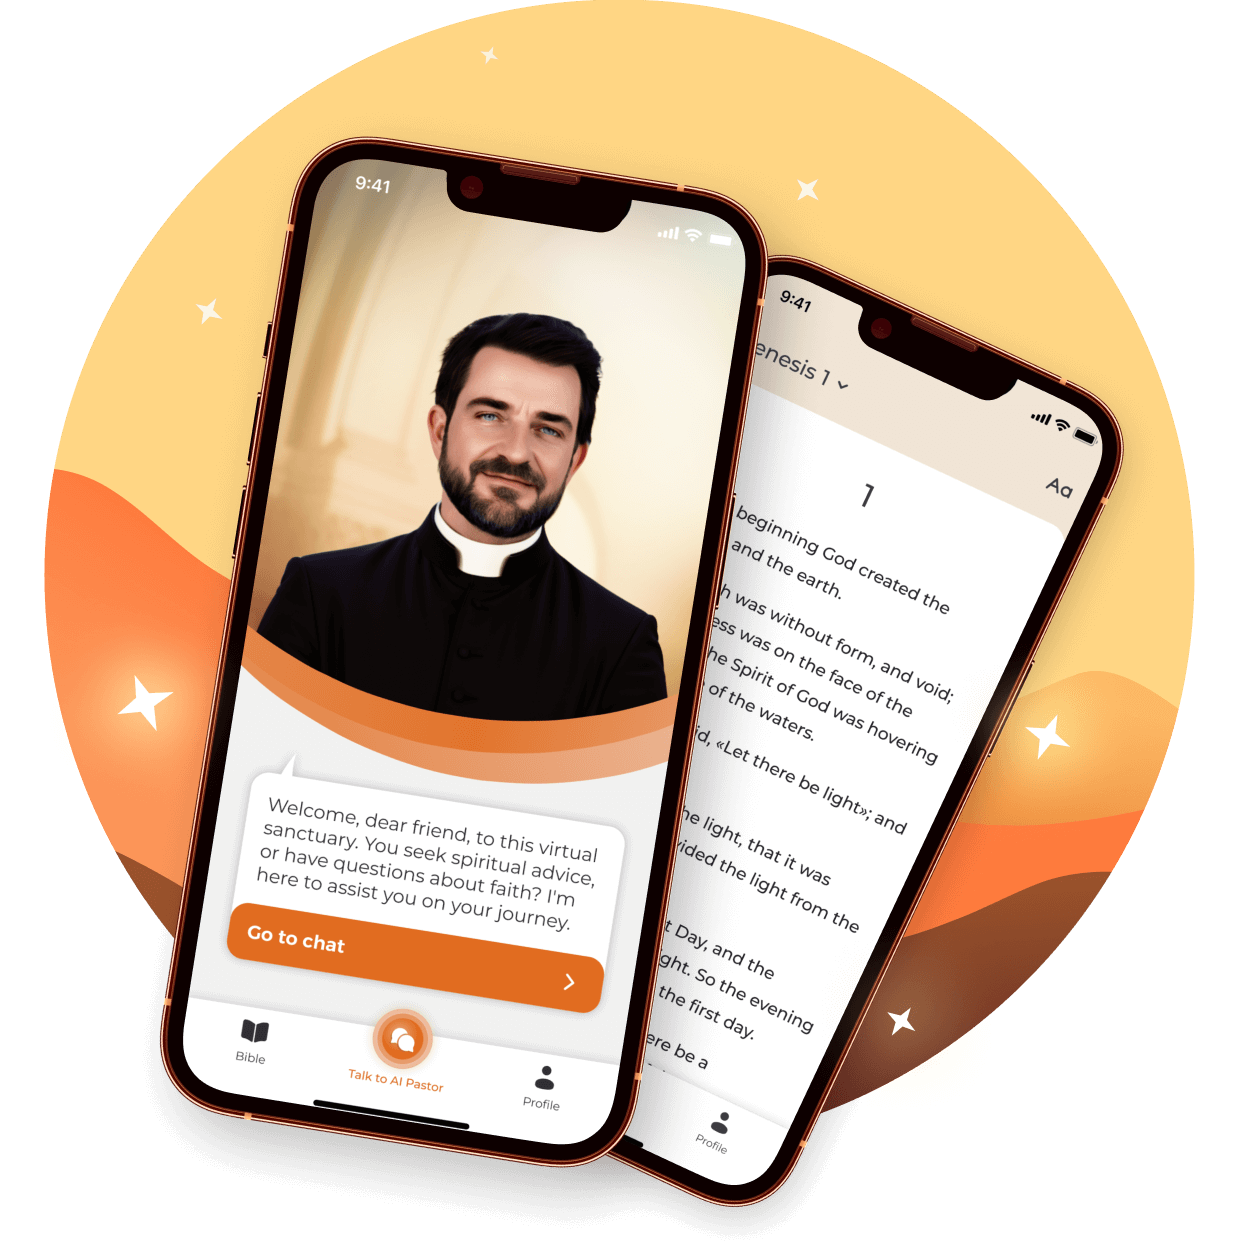
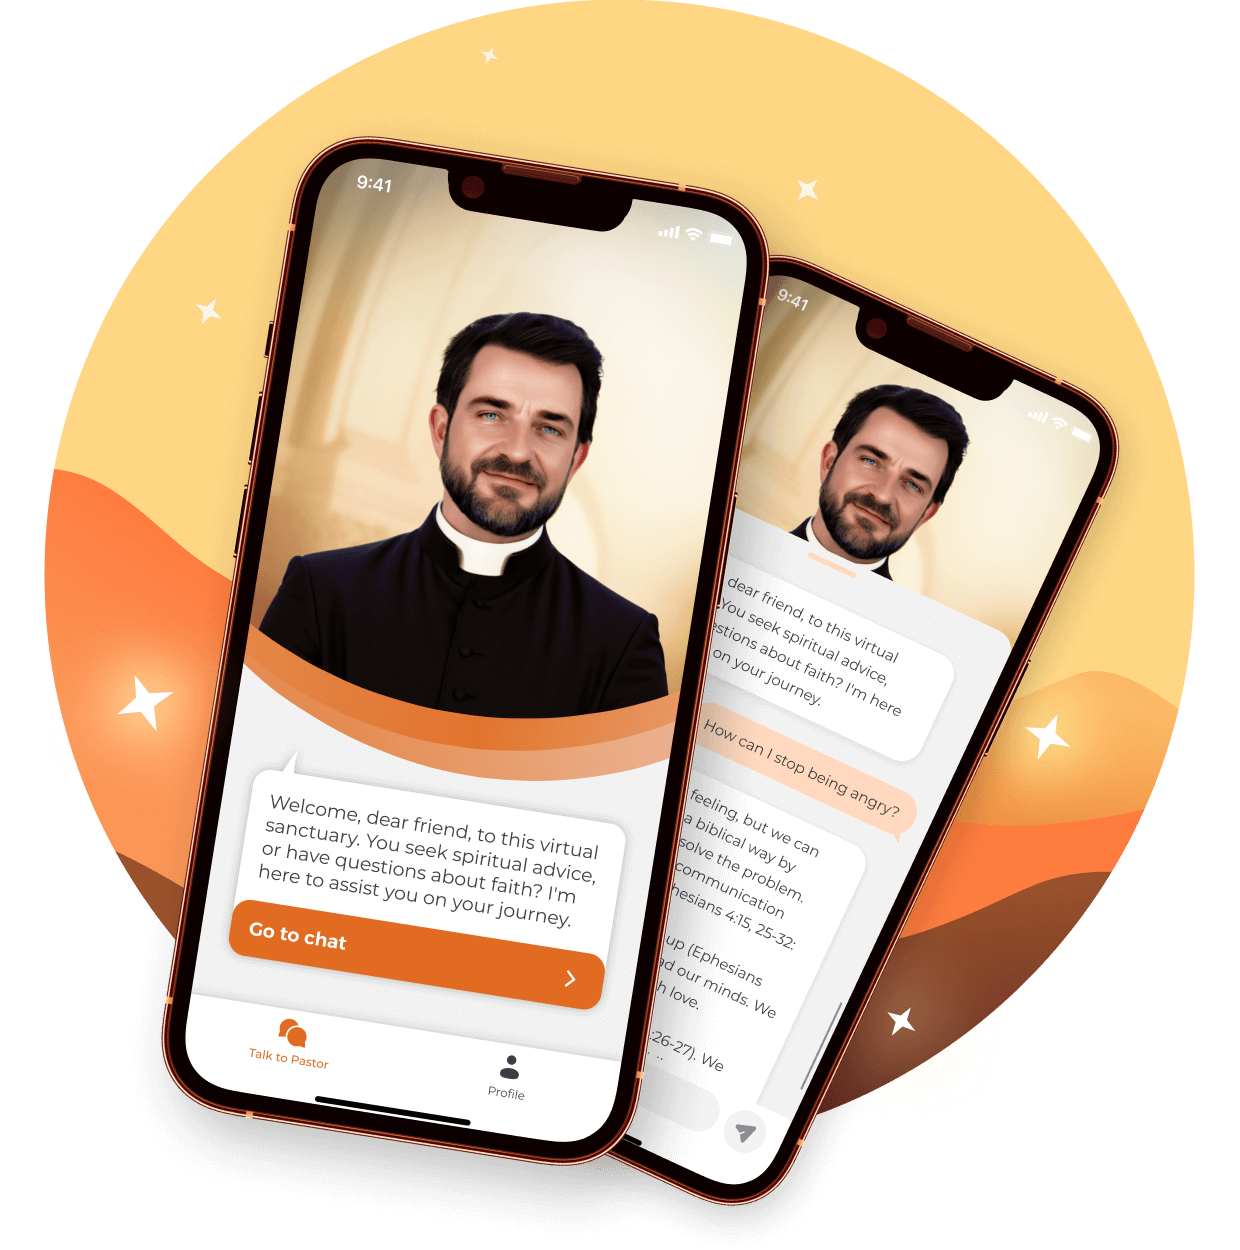
AI Pastor: update home page

diff --git a/aipastor/index.html b/aipastor/index.html
@@ -38,15 +38,14 @@
 				<div class="BlockLogoAndTitleAndDescription">
 					<img alt="Logo" class="Logo" src="/img/logo-2x.png">
 					<h1 class="Title">AI Pastor<br>is your personal<br>spiritual advisor</h1>
-					<p class="Description">Spiritual advice from AI Pastor anytime, anywhere. Convenient interface for&nbsp;reading and&nbsp;studying the&nbsp;Bible. Save and&nbsp;share motivational Bible&nbsp;verses.</p>
+					<p class="Description">Whether you are seeking spiritual advice, compassionate presence, or&nbsp;have questions about&nbsp;faith, AI&nbsp;Pastor can help you anytime,&nbsp;anywhere.</p>
 				</div>
 				<div class="BlockPreviewAndBenefits">
 					<img alt="Preview" class="Preview" src="/img/preview-2x.png">
 					<ul class="Benefits">
-						<li class="Benefit">Your personal <span class="Benefit-highlight">AI Pastor</span></li>
-						<li class="Benefit"><span class="Benefit-highlight">The Bible</span> in your phone</li>
-						<li class="Benefit"><span class="Benefit-highlight">Collections</span> of Bible verses (coming soon)</li>
-						<li class="Benefit">Save your <span class="Benefit-highlight">favorite</span> Bible verses (coming soon)</li>
+						<li class="Benefit">Spiritual advice <span class="Benefit-highlight">anytime, anywhere</span></li>
+						<li class="Benefit"><span class="Benefit-highlight">Convenient chat</span> for conversations</li>
+						<li class="Benefit">Opportunity to ask <span class="Benefit-highlight">any questions</span></li>
 					</ul>
 				</div>
 				<div class="BlockBottomLogoAndLinks">

diff --git a/aipastor/css/page-index.css b/aipastor/css/page-index.css
@@ -4,15 +4,11 @@
 	padding-left: 19px;
 	position: relative;
 }
-.Benefit-highlight {
-	color: #e16c20;
-	font-weight: 500;
-}
 .Benefit:not(:last-of-type) {
 	margin-bottom: 8px;
 }
 .Benefits {
-	margin-bottom: 25px;
+	margin-bottom: 35px;
 	padding: 0;
 }
 .BlockBottomLogoAndLinks {
@@ -36,7 +32,7 @@
 	display: none;
 }
 .Description {
-	margin-bottom: 25px;
+	margin-bottom: 35px;
 	text-align: center;
 }
 .Logo {
@@ -44,11 +40,11 @@
 }
 .Preview {
 	display: block;
-	margin: 0 auto 25px;
+	margin: 0 auto 35px;
 	width: 265px;
 }
 .Section {
-	padding: 11px 16px;
+	padding: 10px 7px;
 }
 .Section-wrapper {
 	align-items: center;
@@ -78,15 +74,19 @@
 	.Benefit:not(:last-of-type) {
 		margin-bottom: 10px;
 	}
+	.Benefit-highlight {
+		color: #e16c20;
+		font-weight: 500;
+	}
 	.Benefits {
 		margin: 0;
-		padding-left: 90px;
+		padding-left: 135px;
 	}
 	.BlockLogoAndTitleAndDescription {
 		width: 620px;
 	}
 	.BlockPreviewAndBenefits {
-		margin-bottom: -200px;
+		margin-bottom: -170px;
 		width: 620px;
 	}
 	.BottomLogo {
